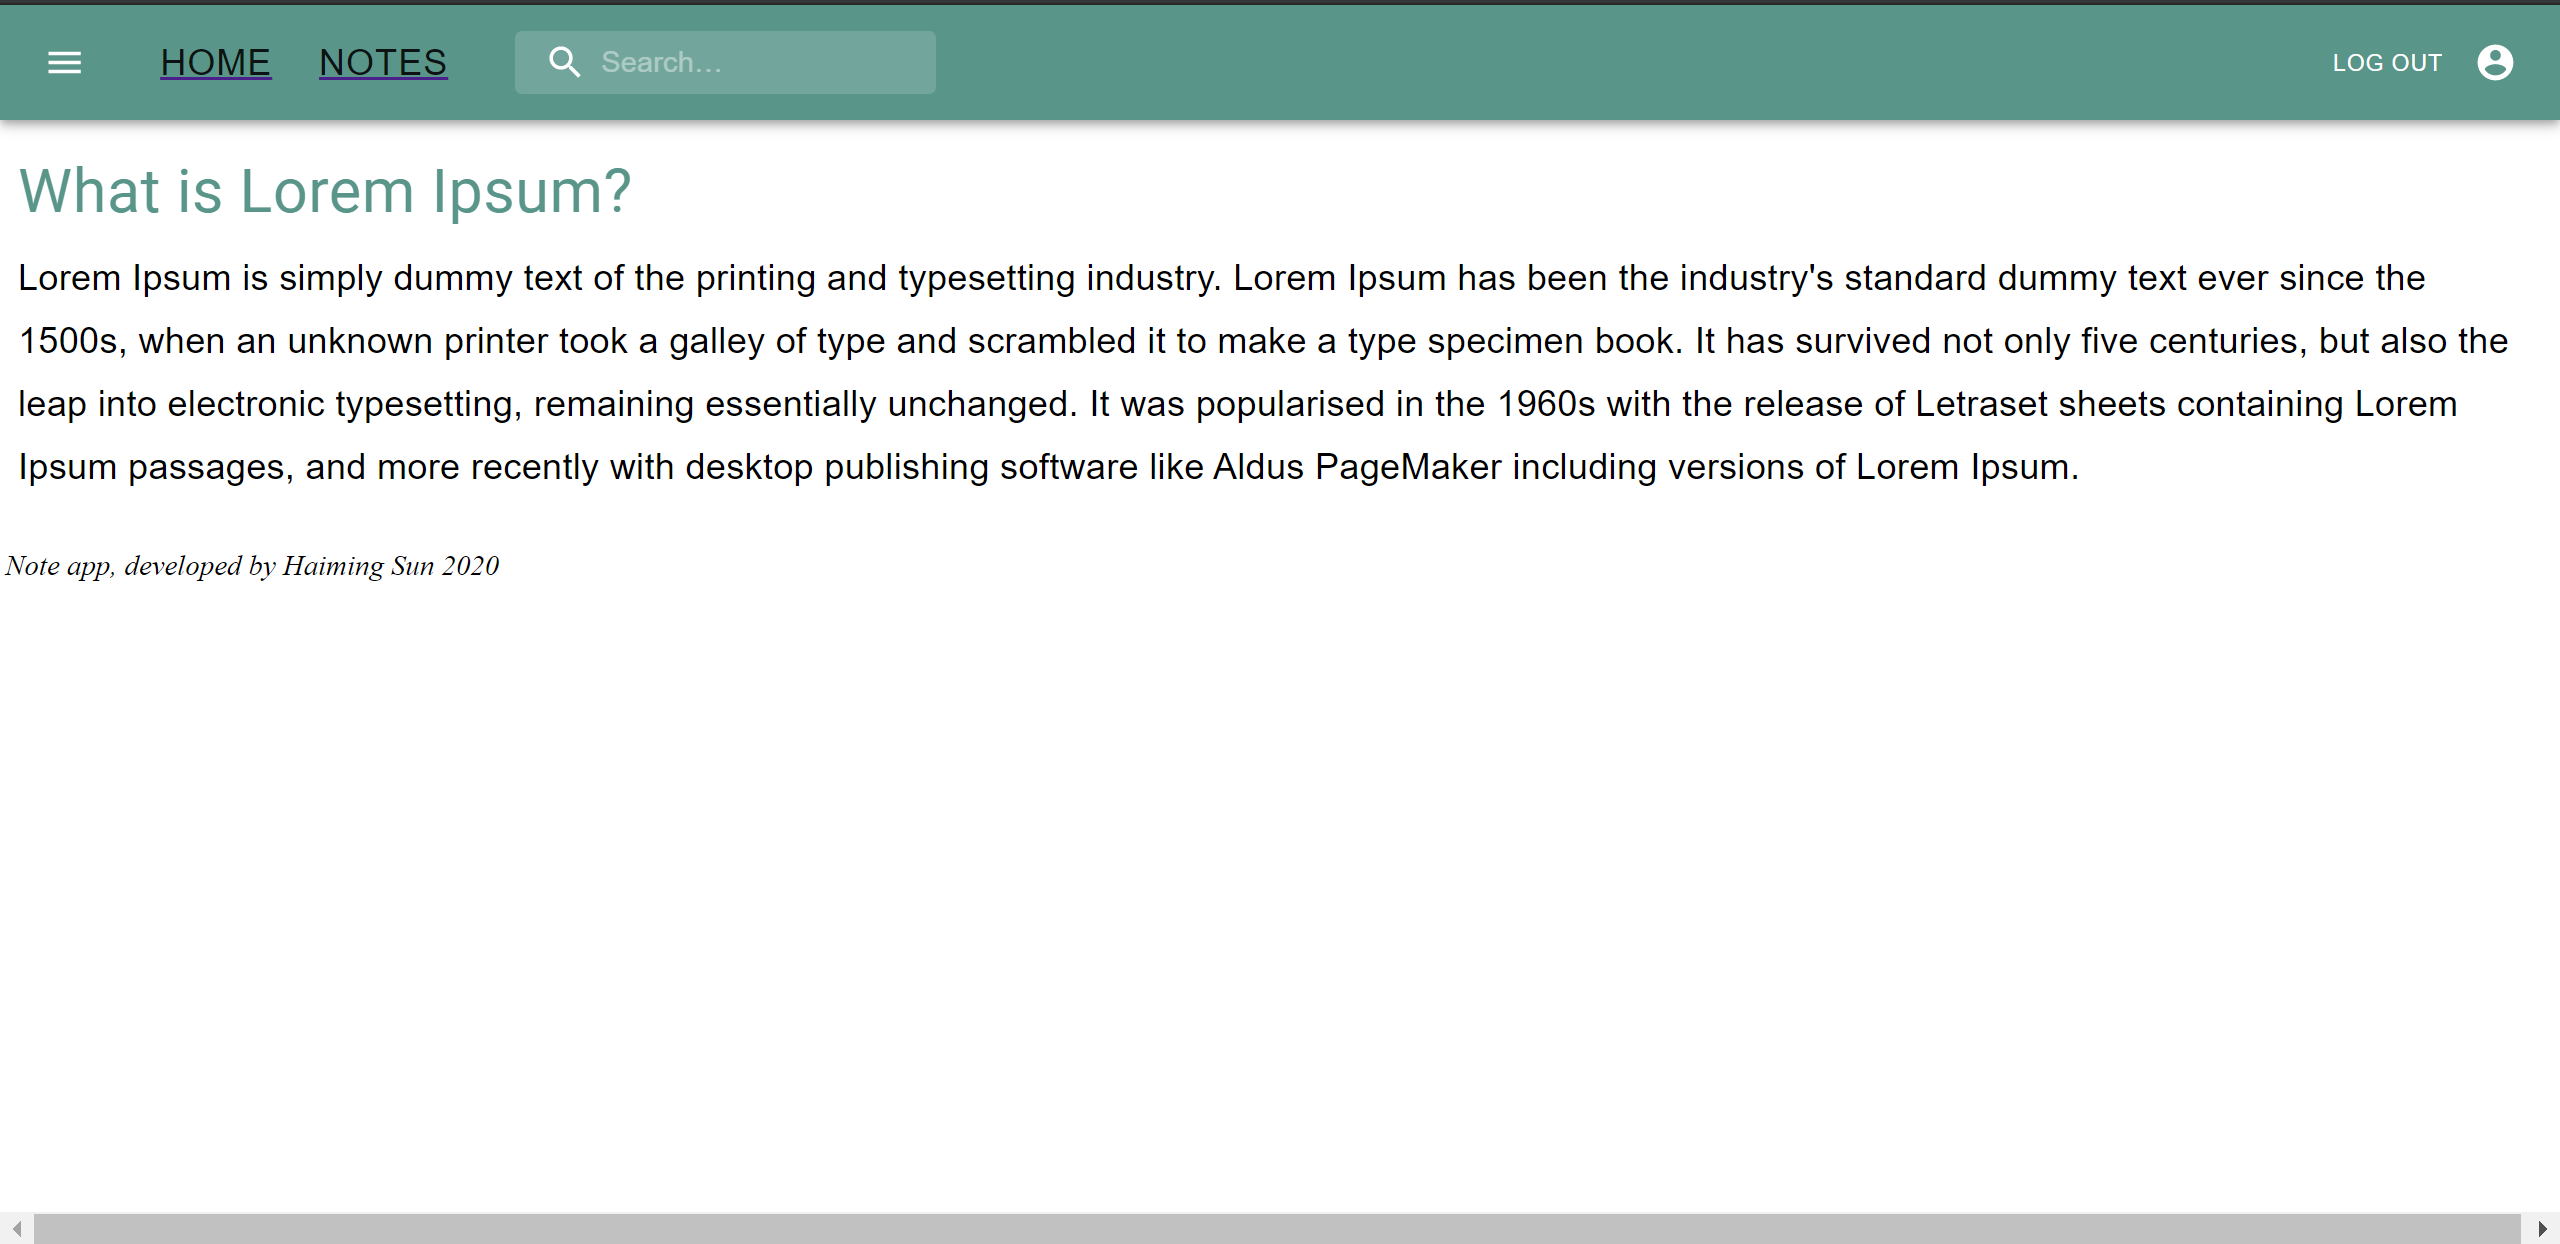
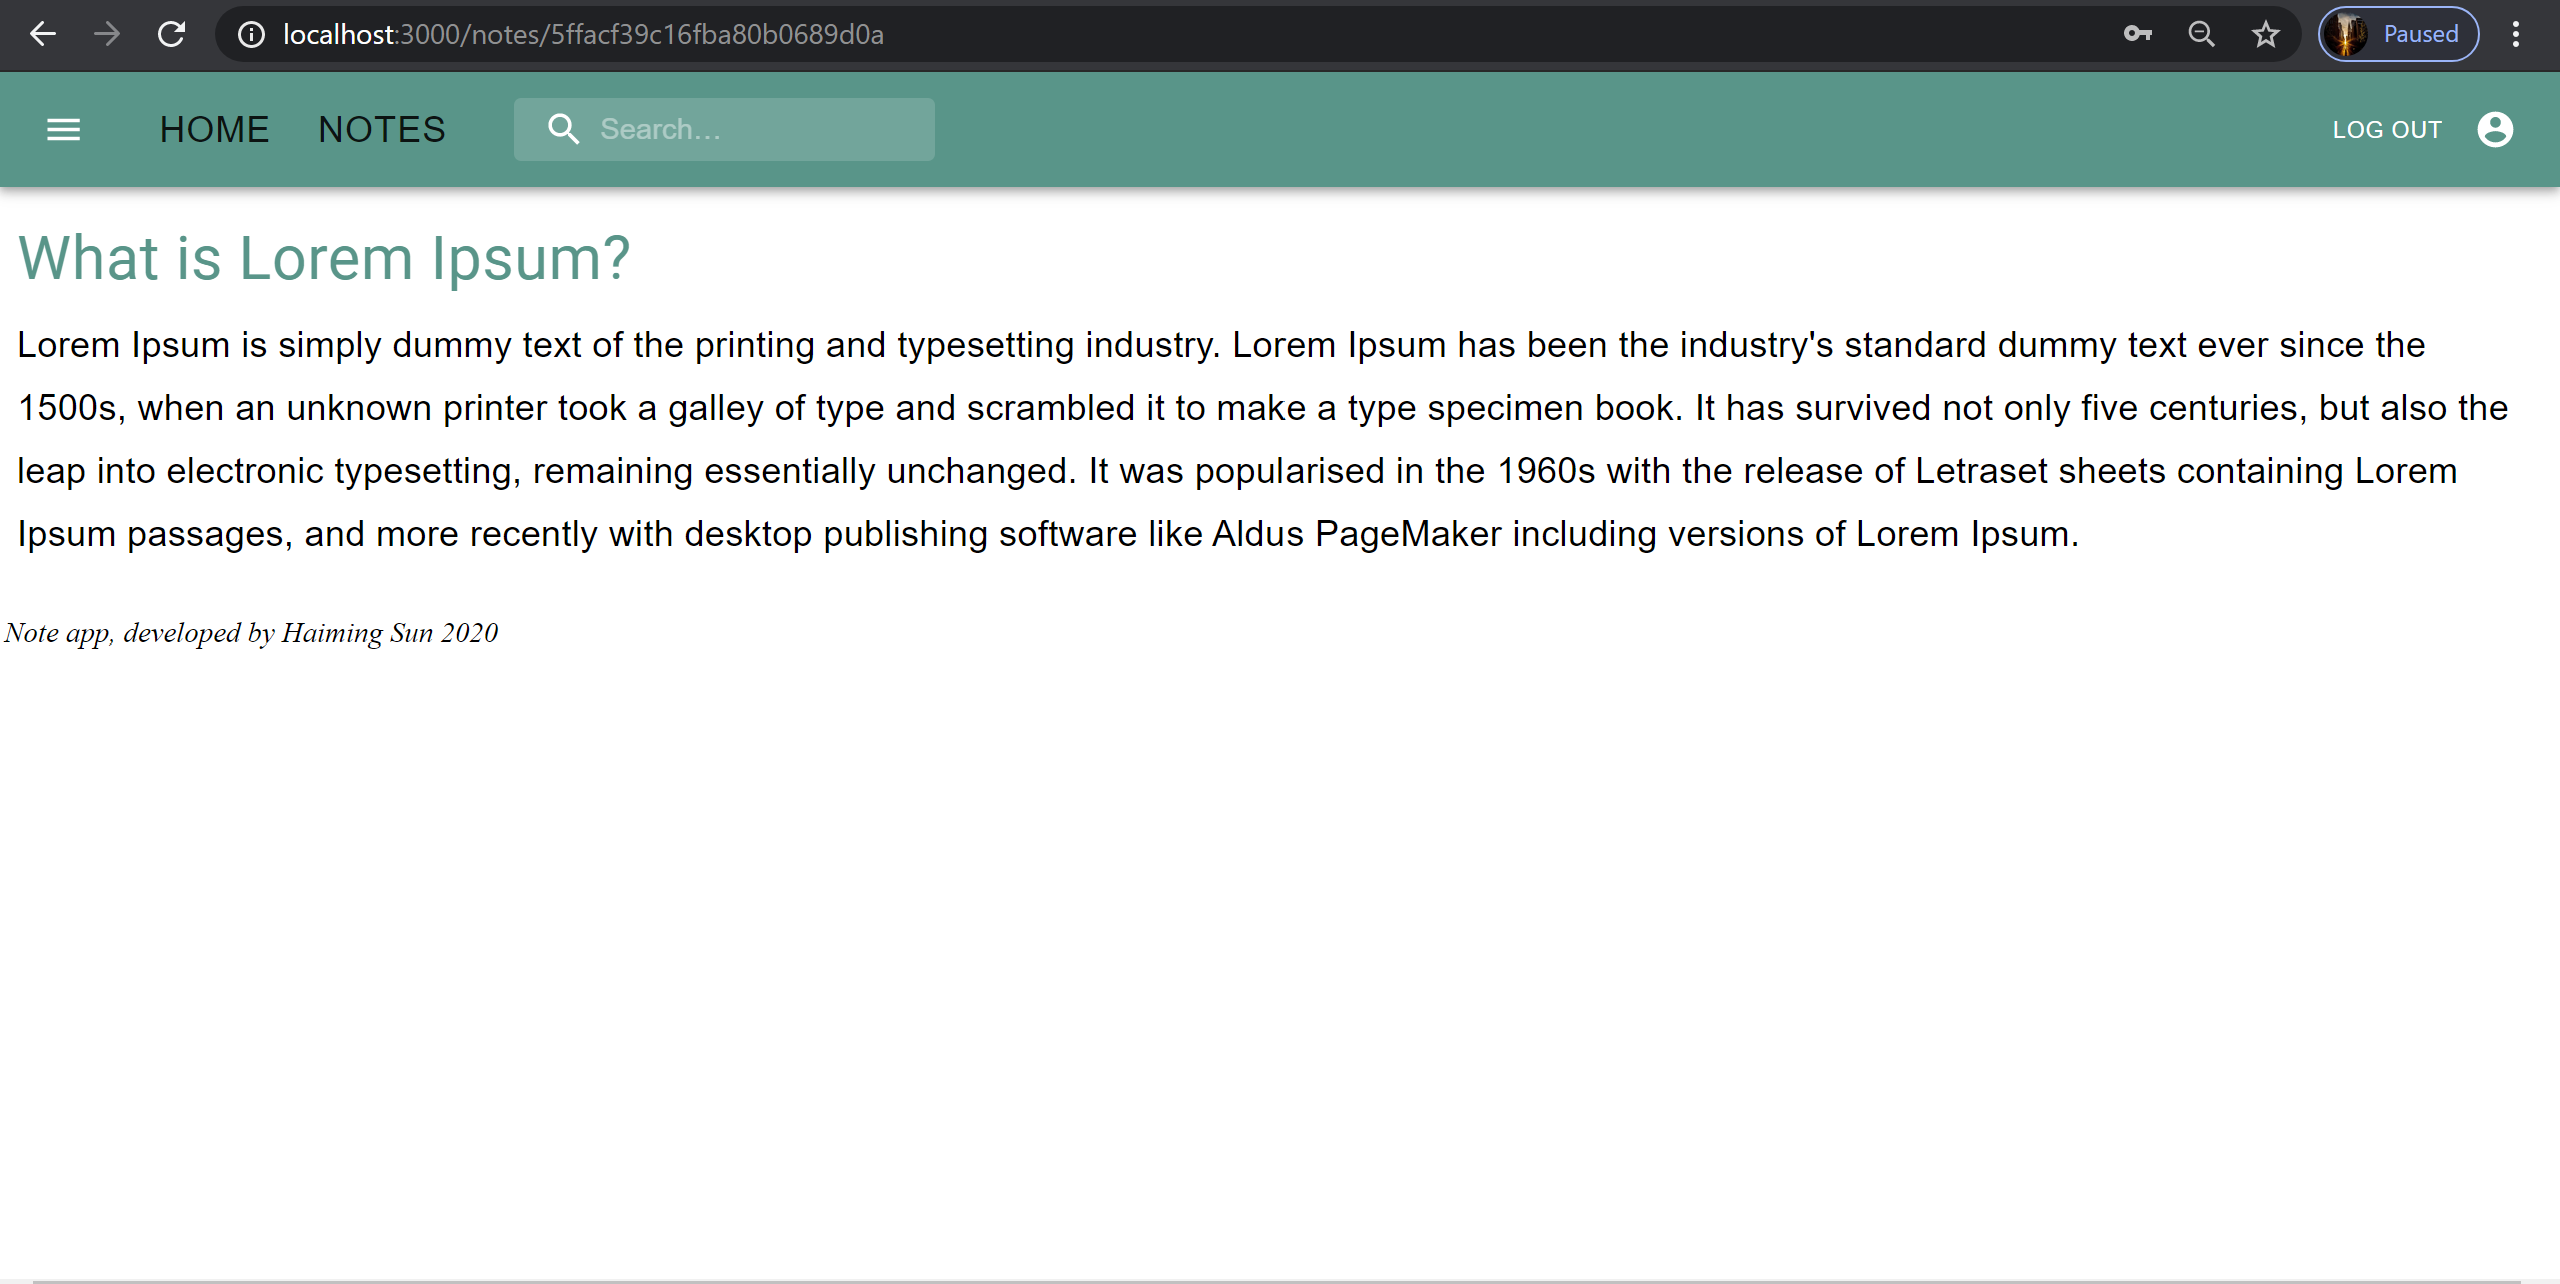
small changes

Changed region(s): [[0.0, 0.0, 1.0, 0.5193], [0.0, 0.9775, 1.0, 1.0]]

diff --git a/frontend/src/Components/navbar.js b/frontend/src/Components/navbar.js
@@ -124,7 +124,7 @@ export default function PrimarySearchAppBar({user, setUser}) {
       open={isMenuOpen}
       onClose={handleMenuClose}
     >
-      <MenuItem onClick={handleMenuClose}><Link to="/users">My account</Link></MenuItem>
+      <MenuItem onClick={handleMenuClose}><Link style={{ textDecoration: 'none' }}  to="/users"><Button size='small'>My account</Button></Link></MenuItem>
     </Menu>
   );
 
@@ -181,10 +181,10 @@ export default function PrimarySearchAppBar({user, setUser}) {
           >
             <MenuIcon />
           </IconButton>
-          <Link className={classes.padding} to="/"><Typography className={classes.title} variant="h6" noWrap>
+          <Link style={{ textDecoration: 'none' }} className={classes.padding} to="/"><Typography className={classes.title} variant="h6" noWrap>
             <Button>Home</Button>
           </Typography></Link>
-        <Link  className={classes.padding}  to="/notes"><Typography className={classes.title} variant="h6" noWrap>
+        <Link  style={{ textDecoration: 'none' }} className={classes.padding}  to="/notes"><Typography className={classes.title} variant="h6" noWrap>
             <Button>Notes</Button>
           </Typography></Link>
 

diff --git a/frontend/src/Components/noteForm.js b/frontend/src/Components/noteForm.js
@@ -48,7 +48,7 @@ const NoteForm = ({ notes, setNotes, setErrorMessage, noteFormRef }) => {
         }
         label="Important"
       />
-      <Button style={{marginBottom:'8px'}}size="small" variant="contained" color="primary" type="submit">submit
+      <Button style={{marginBottom:'8px'}} size="medium" variant="contained" color="primary" type="submit">Save
         </Button>
         
       </form>
